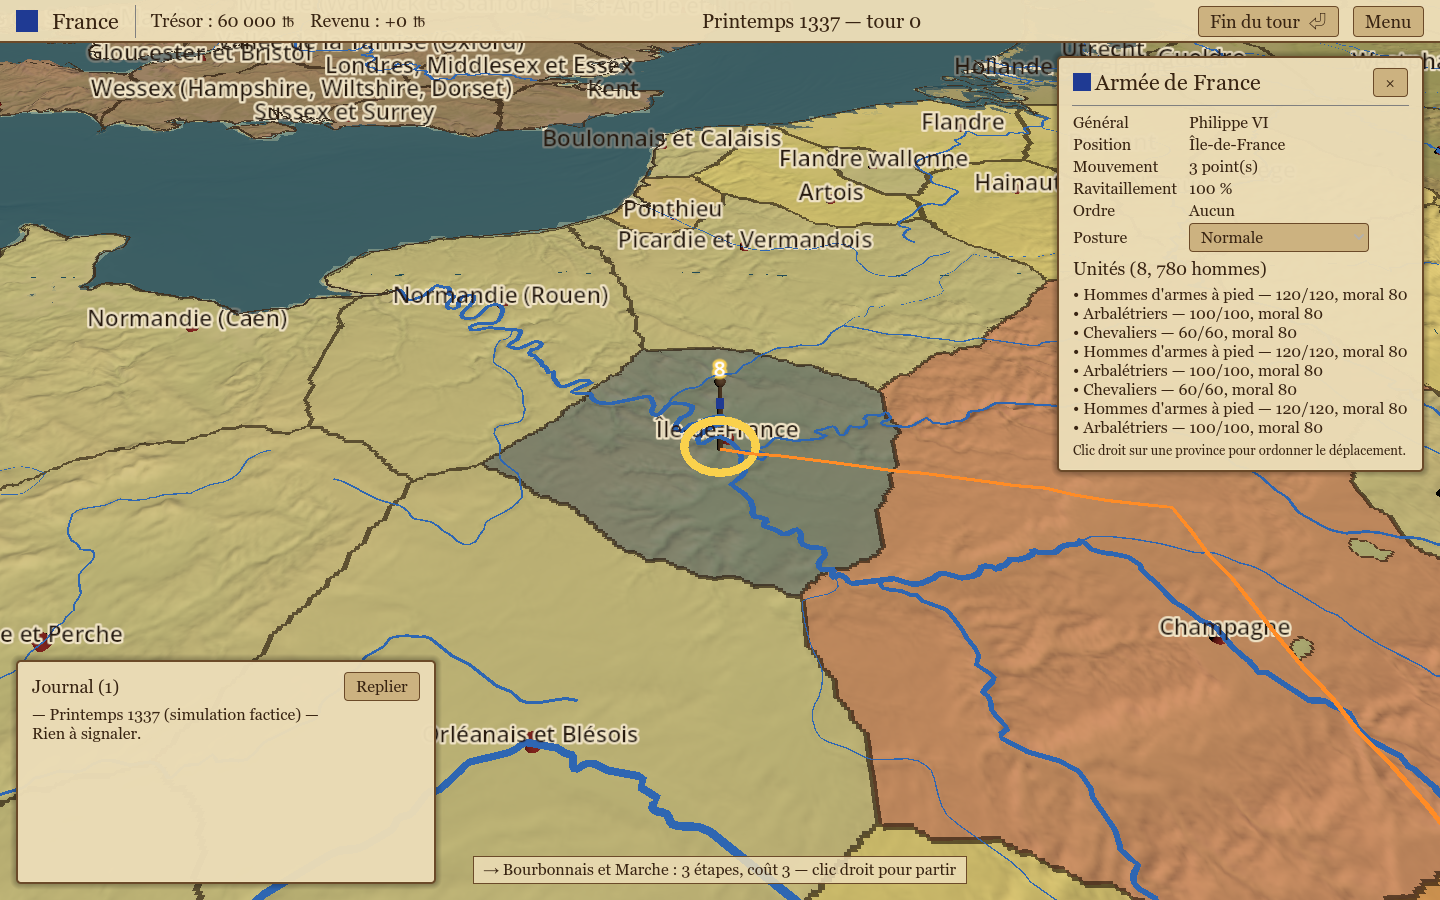
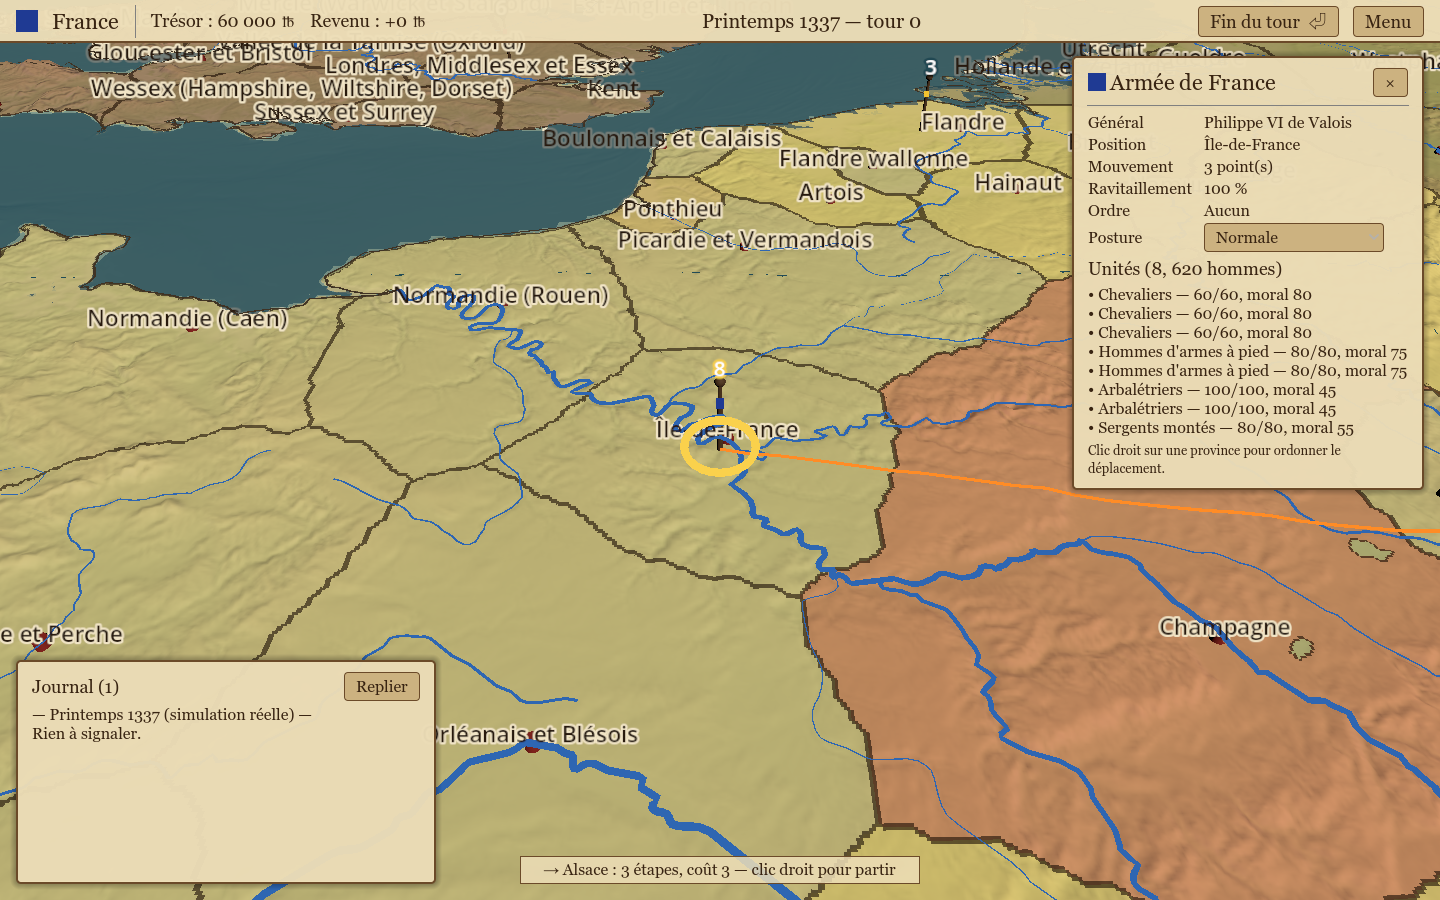
feat(game): SimFacade guards data dir; M2 complete, docs and screenshots

diff --git a/docs/status.md b/docs/status.md
@@ -1,9 +1,9 @@
 # État de l'application
 
-Dernière mise à jour : 2026-09-23 (session 1, fin de M1).
+Dernière mise à jour : 2026-09-23 (session 1, fin de M2).
 
 ## Où en est-on
-- **M0 Fondations : terminé. M1 Carte de campagne : terminé.** Prochain jalon : M2 Boucle de campagne.
+- **M0, M1, M2 terminés.** Le jeu est jouable : campagne France/Angleterre/Bourgogne, déplacement, recrutement, batailles auto, sièges, sauvegarde. Prochain jalon : M3 Villes et économie.
 - Design validé : `docs/design/2026-09-23-cent-ans-design.md`.
 
 ## Ce qui fonctionne
@@ -18,9 +18,16 @@ Dernière mise à jour : 2026-09-23 (session 1, fin de M1).
 - Godot : scène `campaign_map.tscn` avec terrain par tuiles et LOD, frontières et teintes de faction en shader, mer animée, rivières, côtes, marqueurs de villes, caméra RTS, sélection de province, panneau parchemin. Captures : `docs/img/godot-real-map.png`.
 - Rust : `GameDataStore` charge toutes les données typées et les expose à Godot.
 
+- Simulation de campagne (`core/crates/sim-campaign`) : état complet, ordres validés, mouvement Dijkstra terre/mer, batailles auto, sièges, chevauchées, économie, ravitaillement, personnages (mort, succession), IA minimale, sauvegarde JSON, déterminisme testé sur 20 tours. 24 tests.
+- Pont `CampaignSim` (GDExtension) : API complète spec M2 § 2, vérification headless `core/checks/campaign_sim_check.gd`.
+- Interface Godot : menu de départ (3 factions), HUD parchemin (trésor, revenu, date, fin de tour, journal), panneaux armée et province, recrutement avec raisons, formation d'armée, marqueurs d'armées, ordre de déplacement au clic droit avec aperçu de chemin, sauvegarde/chargement. Captures : `docs/img/godot-campaign-hud.png`, `godot-campaign-province.png`, `godot-start-menu.png`.
+- Équilibrage observé : France ≈ 24 000 livres/saison, armée royale de 8 unités ≈ 13 % du revenu.
+
 ## Limites connues
-- Le panneau de province lit encore le GeoJSON, pas `GameDataStore` (capitale/terrain affichés « — ») : à brancher en M2.
-- Premier chargement de la heightmap 16 bits ≈ 5 s (décodage PNG en GDScript, cache ensuite) : à déplacer côté Rust en M2.
+- Le revenu affiché est 0 au tour 0 (revenu du dernier tour) ; un revenu prévisionnel viendra avec M3.
+- Pas d'ordre d'assaut : les sièges se résolvent par durée uniquement.
+- L'IA minimale recrute une unité par tour et thésaurise ; l'IA complète est M9.
+- La population ne varie pas encore (M3).
 - Factions manquantes (Anjou-Provence, Grenade, Hollande-Hainaut, Brabant, Gueldre, Venise, Florence…) remplacées par la faction la plus proche, voir `docs/design/provinces-1337.md`.
 - L'addon Blender MCP exige Blender ouvert en mode graphique ; le fallback headless est `tools/cent_ans_tools/blender.py`.
 

diff --git a/docs/sessions/2026-09-23-session-01.md b/docs/sessions/2026-09-23-session-01.md
@@ -24,3 +24,9 @@
 - 5 agents : pipeline terrain (ETOPO 2022 + Natural Earth), 132 provinces 1337, polygones Voronoï à coût de déplacement, chargement Rust typé, rendu Godot complet.
 - Tous tests verts (Rust 23, Python 28, smoke Godot carte + picking). Dépense cloud : 0,00 $.
 - Prochaine étape : M2 boucle de campagne (spécification puis agents).
+
+## Résultat M2 (même session, après pause quota 10 h 30 → basse priorité)
+- Simulation Rust complète (agent), pont GDExtension (terminé par l'orchestrateur après deux agents figés en basse priorité), interface Godot (agent, finalisée par l'orchestrateur).
+- Jeu jouable de bout en bout ; smoke test : carte, menu, boucle de campagne réelle 4 tours + sauvegarde/rechargement. Dépense cloud : 0,00 $.
+- Leçons : les agents doivent commiter en `wip:` toutes les 15 min (règle ajoutée) ; en mode basse priorité les agents se figent au-delà de 10 min sans progression → préférer attendre le renouvellement pour lancer une vague.
+- Fenêtre de quota : session limitée à 10 h 30, renouvellement 14 h 00.

diff --git a/docs/roadmap.md b/docs/roadmap.md
@@ -4,8 +4,8 @@
 |---|---|---|
 | M0 | Fondations : outils, dépôt, squelette Rust+Godot, schémas, docs | terminé (2026-09-23) |
 | M1 | Carte de campagne réelle (provinces, terrain 3D, caméra, villes) | terminé (2026-09-23) |
-| M2 | Boucle de campagne minimale jouable (tours, armées, auto-résolution, sauvegarde, UI) | en cours |
-| M3 | Villes et économie (classes, bâtiments, jauges, ressources) | à faire |
+| M2 | Boucle de campagne minimale jouable (tours, armées, auto-résolution, sauvegarde, UI) | terminé (2026-09-23) |
+| M3 | Villes et économie (classes, bâtiments, jauges, ressources) | en cours |
 | M4 | Personnages et dynasties | à faire |
 | M5 | Diplomatie et religion | à faire |
 | M6 | Technologies | à faire |
